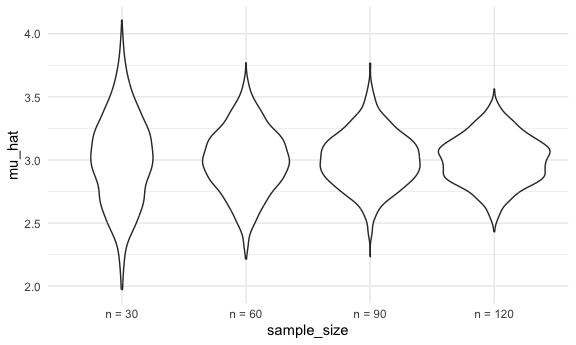
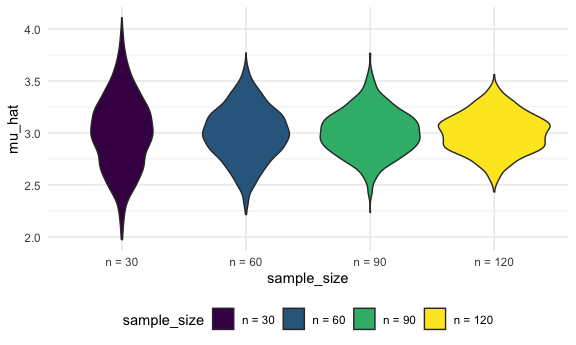
simple linear regression + bday problem

diff --git a/simulation.md b/simulation.md
@@ -20,7 +20,7 @@ sim_mean_and_sd(n_subj = 400)
     ##    <dbl>     <dbl>
     ## 1   3.08      1.94
 
-can.i “verify” CLT?
+can i “verify” CLT?
 
 ``` r
 output = vector("list", length = 100)
@@ -60,7 +60,7 @@ sim_results_df %>%
     sample_size = str_c("n = ", sample_size),
     sample_size = fct_inorder(sample_size)
   ) %>% 
-  ggplot(aes(x = sample_size, y = mu_hat)) +
+  ggplot(aes(x = sample_size, y = mu_hat, fill = sample_size)) +
   geom_violin()
 ```
 
@@ -84,3 +84,170 @@ sim_results_df %>%
     ## 2          60     2.99  0.257
     ## 3          90     3.00  0.216
     ## 4         120     3.00  0.190
+
+## Simple linear regression
+
+``` r
+sim_df =
+  tibble(
+    x = rnorm(30, mean = 1, sd = 1),
+    y = 2 +3 * x + rnorm(30, 0, 1)
+  )
+
+sim_df %>% 
+  ggplot(aes(x = x, y = y)) +
+  geom_point()
+```
+
+<img src="figures/unnamed-chunk-7-1.png" width="90%" />
+
+``` r
+slr_fit = lm(y ~ x, data = sim_df)
+
+coef(slr_fit)
+```
+
+    ## (Intercept)           x 
+    ##    2.267718    3.076814
+
+turn this into a function
+
+``` r
+sim_regression = function (n_subj, beta_0 = 2, beta_1 = 3) {
+  
+  sim_df =
+    tibble(
+      x = rnorm(n_subj, mean = 1, sd = 1),
+      y = beta_0 + beta_1 * x + rnorm(n_subj, 0, 1)
+      )
+  
+  slr_fit = lm(y ~ x, data = sim_df)
+  
+  tibble(
+    beta0_hat = coef(slr_fit)[1],
+    beta1_hat = coef(slr_fit)[2]
+  )
+  
+}
+```
+
+``` r
+sim_regression(n_subj = 30)
+```
+
+    ## # A tibble: 1 × 2
+    ##   beta0_hat beta1_hat
+    ##       <dbl>     <dbl>
+    ## 1      2.25      2.83
+
+For loop
+
+``` r
+output = vector("list", length = 500)
+
+for (i in 1:500) {
+  output[[i]] = sim_regression(n_subj = 30)
+}
+
+output %>% 
+  bind_rows()
+```
+
+    ## # A tibble: 500 × 2
+    ##    beta0_hat beta1_hat
+    ##        <dbl>     <dbl>
+    ##  1      1.90      3.05
+    ##  2      2.13      2.87
+    ##  3      1.97      2.95
+    ##  4      1.77      3.45
+    ##  5      2.11      2.98
+    ##  6      1.82      3.01
+    ##  7      1.89      2.91
+    ##  8      1.60      3.10
+    ##  9      1.84      2.96
+    ## 10      1.56      3.23
+    ## # ℹ 490 more rows
+
+iterations with regression
+
+``` r
+slr_sim_results_df =
+  expand_grid(
+    sample_size = 30,
+    iter = 1:500
+  ) %>% 
+  mutate(
+    results = map(sample_size, sim_regression)
+  ) %>% 
+  unnest(results)
+
+slr_sim_results_df %>% 
+  ggplot(aes(x = beta0_hat, y = beta1_hat)) +
+  geom_point()
+```
+
+<img src="figures/unnamed-chunk-11-1.png" width="90%" />
+
+## birthday problem example
+
+``` r
+birthdays = sample(1:365, 5, replace = TRUE)
+
+# if number of unique birthdays is less than or equal to 5
+repeated_bday = length(unique(birthdays)) < 5
+
+repeated_bday
+```
+
+    ## [1] FALSE
+
+put this in a function
+
+``` r
+bday_sim = function(n_room) {
+  
+    birthdays = sample(1:365, n_room, replace = TRUE)
+    
+    repeated_bday = length(unique(birthdays)) < n_room
+    
+    repeated_bday
+  }
+```
+
+``` r
+bday_sim(20)
+```
+
+    ## [1] FALSE
+
+``` r
+bday_sim_results =
+  expand_grid(
+    bdays = 5:50,
+    iter = 1:2500
+  ) %>% 
+  mutate(
+    results = map_lgl(bdays, bday_sim)
+  ) %>% 
+  group_by(
+    bdays
+  ) %>% 
+  summarize(
+    prob_repeat = mean(results)
+  )
+```
+
+plot
+
+``` r
+bday_sim_results %>% 
+  ggplot(aes(x = bdays, y = prob_repeat)) +
+  geom_point(color = "red") +
+  geom_line()
+```
+
+<img src="figures/unnamed-chunk-16-1.png" width="90%" />
+
+``` r
+# very jagged bc we only repeated it 50 times. maybe if we had more iterations it would be smoother. when i change code so that iter = 1:2500, it's less jagged
+```
